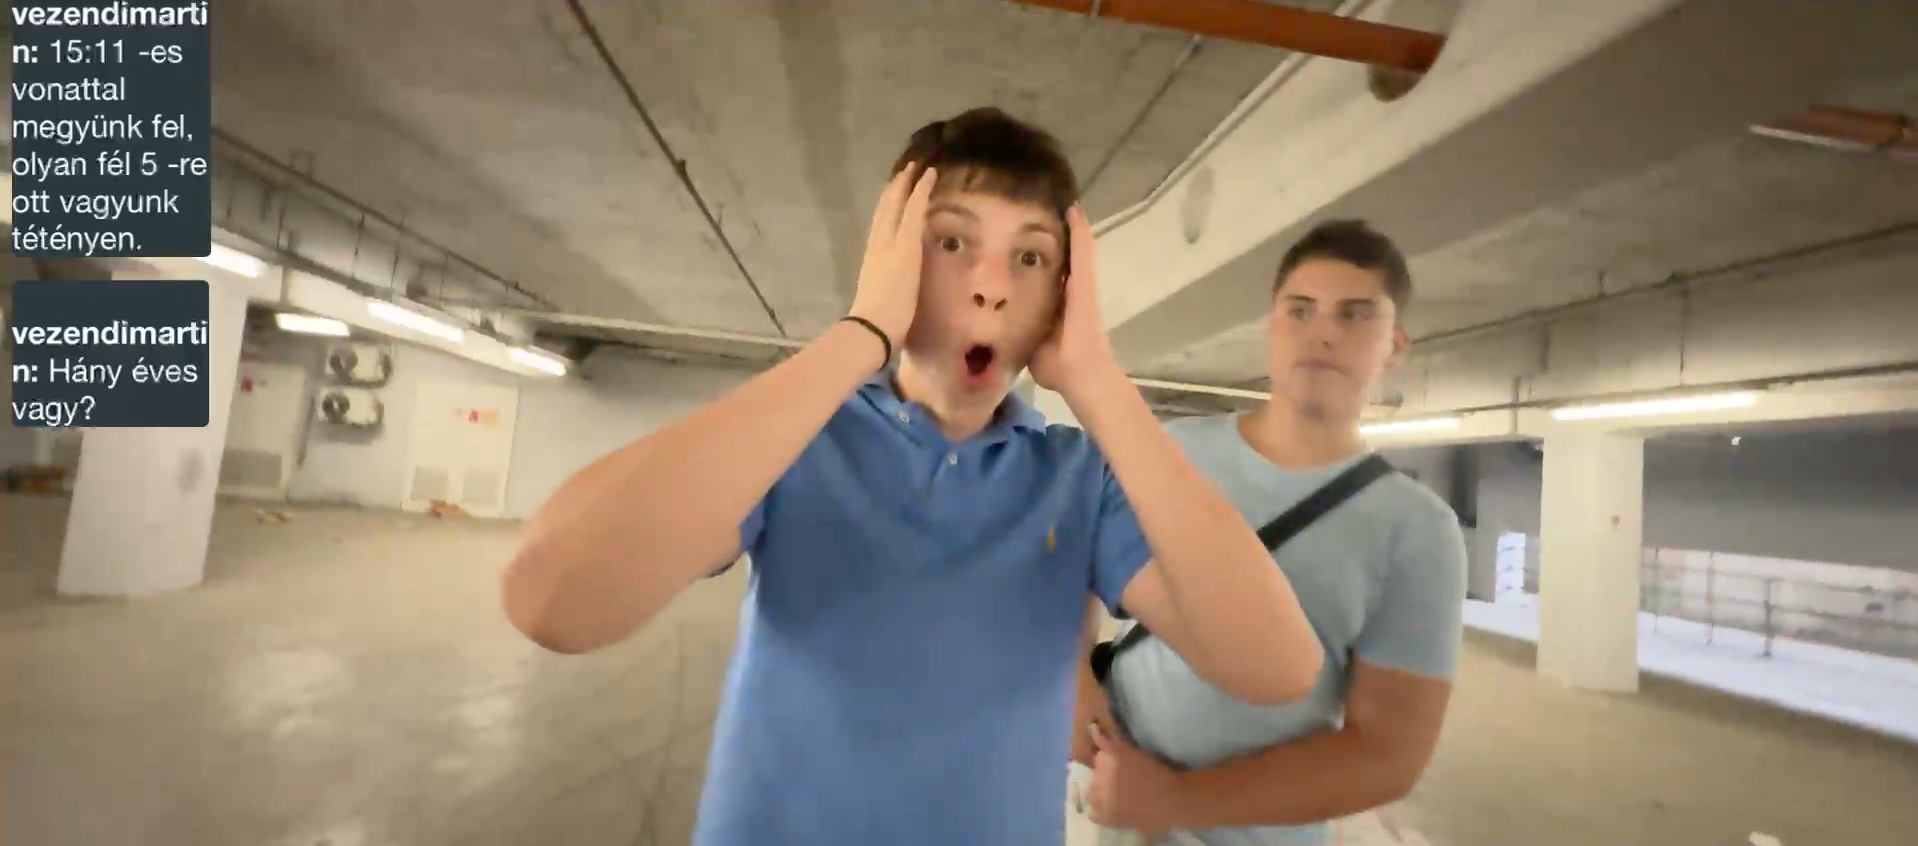
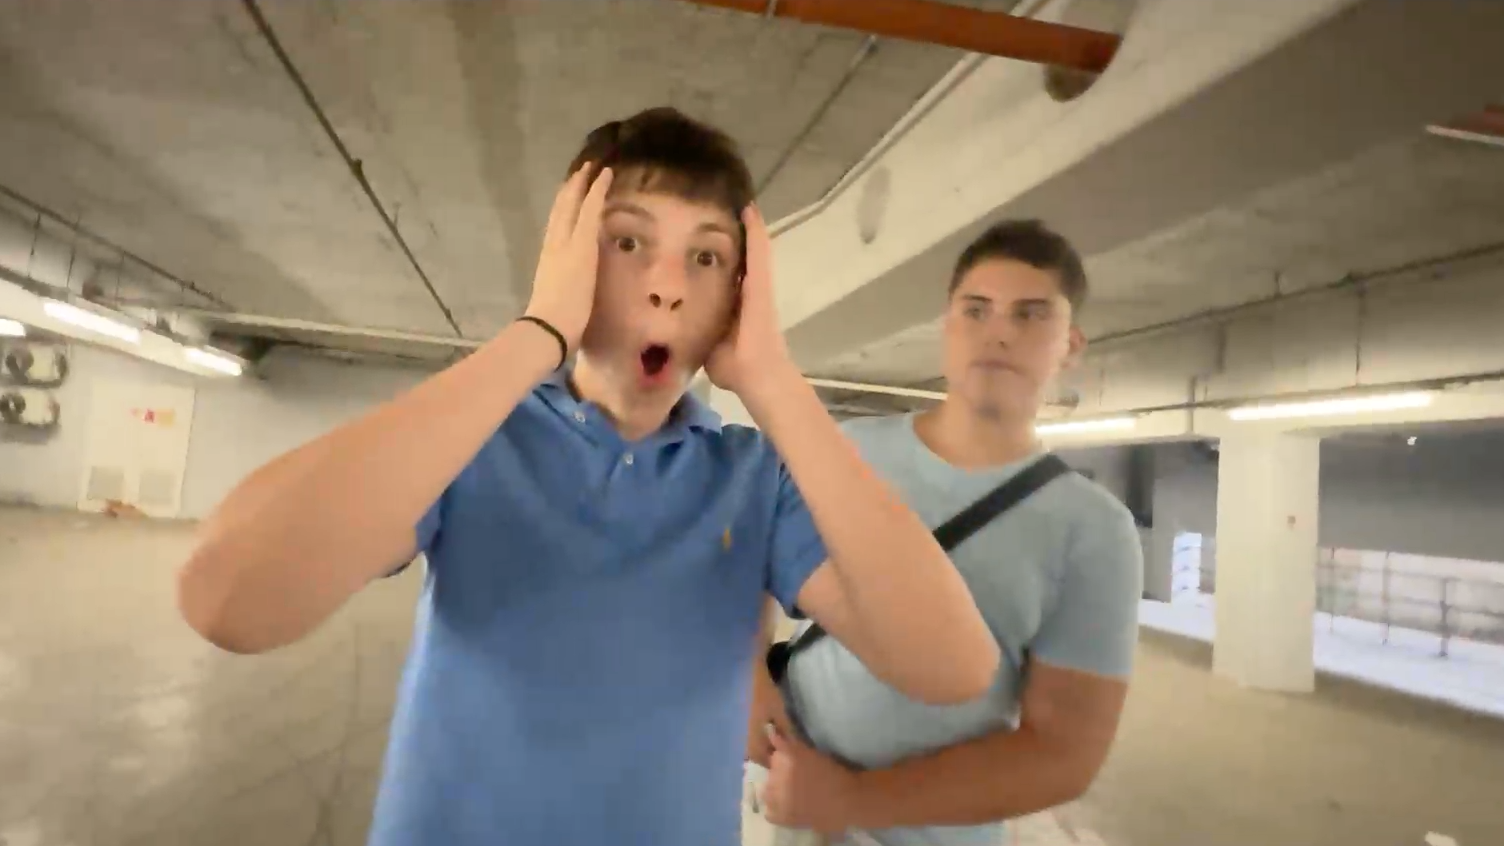
2026.10.13 Kissebb javítások

diff --git a/Schedule.html b/Schedule.html
@@ -13,9 +13,9 @@
     
     -->
 
-     <h1><b>Schedule</b></h1>
+    <h1><b>Schedule</b></h1>
 
-      <a href="index.html"> <b>Főoldal</b></a> <b>|</b> <a href="Schedule.html"> <b>Schedule</b> </a> <b>|</b> <a href="Merch.html"> <b>Merch</b></a>
+    <a href="index.html"> <b>Főoldal</b></a> <b>|</b> <a href="Schedule.html"> <b>Schedule</b> </a> <b>|</b> <a href="Merch.html"> <b>Merch</b></a>
 
     <hr>
     <h2><b>Következő stream</b>: (<a href="https://www.twitch.tv/triobrio00/schedule" target="_blank"> <b><i>Twitch schedule</i></b> </a>)</h2>

diff --git a/index.html b/index.html
@@ -30,7 +30,7 @@
     
 
     <img src="img/test.webp" alt="A képet nem tudtuk betölteni..." width="600">
-    <img src="img/image2.png" alt="A képet nem tudtuk betölteni..." width="750">
+    <img src="img/image2.png" alt="A képet nem tudtuk betölteni..." width="590">
 
 
     <h6>Frissítve: 2026.10.13</h6>
